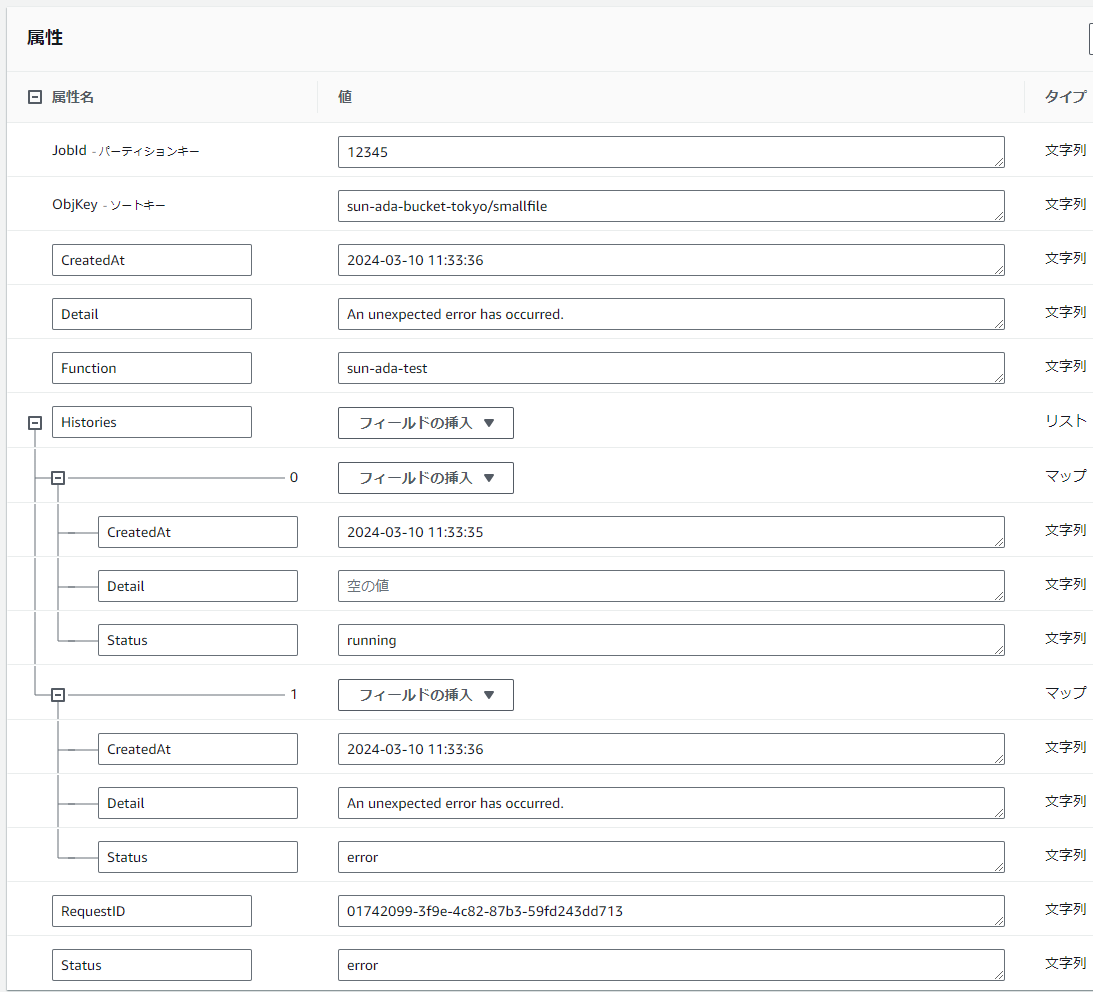
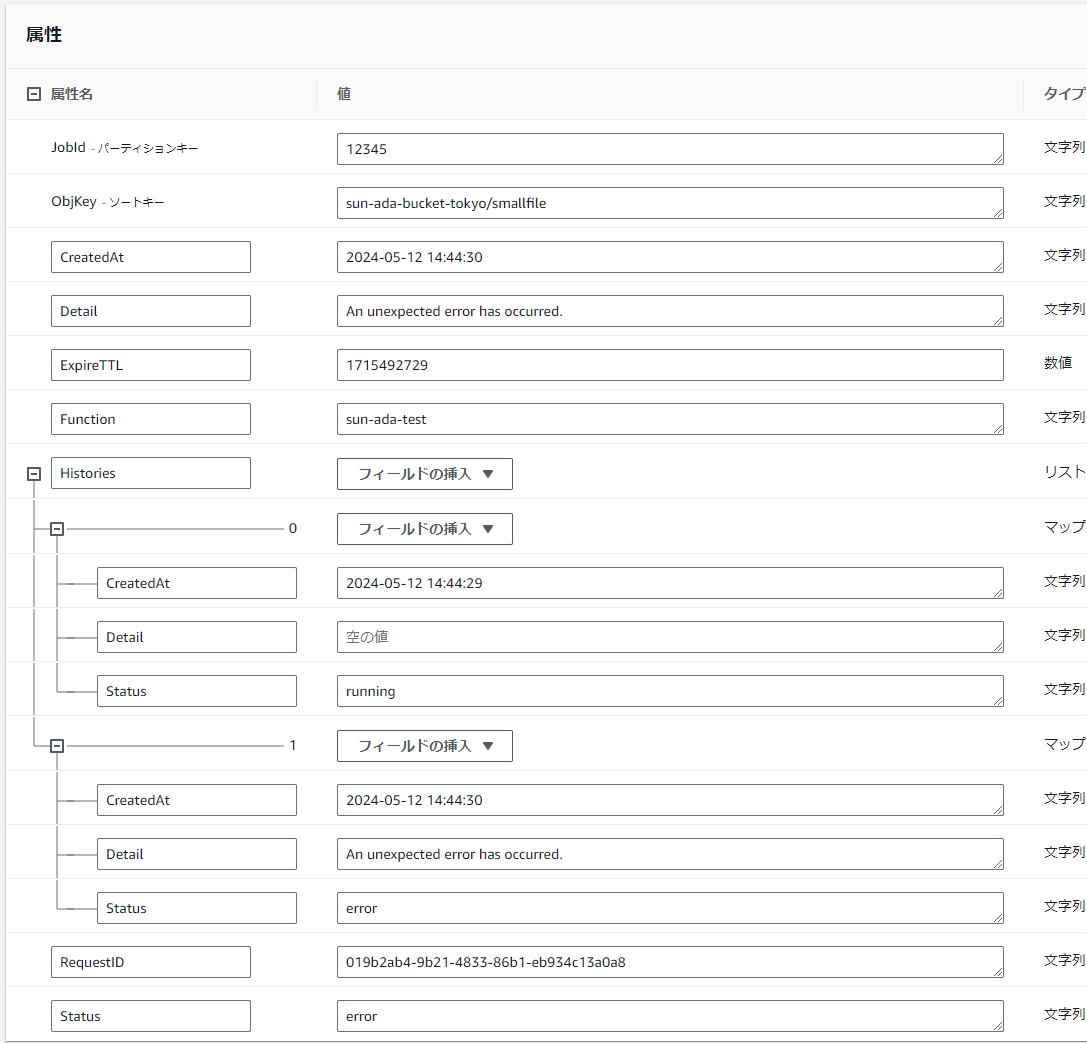
TTL設定によるDynamoDBデータ自動削除処理を追加

diff --git a/lambda_function.py b/lambda_function.py
@@ -28,11 +28,19 @@ STATUS_RUNNING = 'running'
 STATUS_SUCCESS = 'success'
 STATUS_ERROR = 'error'
 
+# TTL（Time to Live）定義（秒）
+TTL_SECONDS_VALUE = 24 * 60 * 60
+
+# UNIXエポック時間形式（秒）TTL値取得
+def get_ttl_unix_epoch_time():
+    return int((datetime.datetime.now(tz=tz.gettz('Asia/Tokyo')) + datetime.timedelta(seconds=TTL_SECONDS_VALUE)).timestamp())
+
 # 開始ステータス登録
 def write_start_status(status):
     try:
         status['Status'] = STATUS_RUNNING
         status['CreatedAt'] = datetime.datetime.now(tz=tz.gettz('Asia/Tokyo')).strftime('%Y-%m-%d %H:%M:%S')
+        status['ExpireTTL'] = get_ttl_unix_epoch_time()
         status['Histories'] = [
             {
                 'CreatedAt': status['CreatedAt'],
@@ -57,6 +65,7 @@ def write_start_status(status):
 def write_final_status(status):
     try:
         status['CreatedAt'] = datetime.datetime.now(tz=tz.gettz('Asia/Tokyo')).strftime('%Y-%m-%d %H:%M:%S')
+        status['ExpireTTL'] = get_ttl_unix_epoch_time()
         # DB更新
         dynamo_table.update_item(
             Key={

diff --git a/README.md b/README.md
@@ -28,6 +28,14 @@ AWS Lambda sample code for implementing idempotency.
 
 ![alt text](assets/image-dynamodb-table.png)
 
+## TTL（Time to Live）
+
+DynamoDBテーブルのイベントデータはTTL設定により一定時間経過後に自動削除されます。
+
+![alt text](assets/image-dynamodb-ttl.png)
+
+但し、TTL設定によるデータ削除のタイミングは、それほど厳密ではないことに注意してください。古いAWSドキュメントには「最大48時間」という記載があったようですが現在はありません。[AWS re:Post に記載された新しい情報](https://repost.aws/ja/knowledge-center/dynamodb-expired-ttl-not-deleted)では「通常、期限切れの項目を数日以内に削除します」と記載されています。今回の試行では平均10分強程で削除されていました。（※参考値）
+
 ## テストデータ
 
 テスト実行に用いたイベントデータは次のとおりです。
@@ -67,6 +75,8 @@ END RequestId: 50d363b4-b6ab-48d2-843d-aab3a0043aec
 
 ## 参考
 
+### 冪等性
+
 * https://pages.awscloud.com/rs/112-TZM-766/images/20190820_AWS-Blackbelt_Serverless_Monitoring.pdf
 * https://docs.aws.amazon.com/ja_jp/lambda/latest/dg/best-practices.html
 * https://repost.aws/ja/knowledge-center/lambda-function-idempotent
@@ -74,3 +84,10 @@ END RequestId: 50d363b4-b6ab-48d2-843d-aab3a0043aec
 * https://www.sunnycloud.jp/column/20221110/
 * https://it-ouji.com/2021/10/24/aws-dynamodb%E3%82%92%E4%BD%BF%E7%94%A8%E3%81%97%E3%81%A6lambda%E3%81%AE%E5%86%AA%E7%AD%89%E6%80%A7%E3%82%92%E5%AE%9F%E8%A3%85%E3%81%99%E3%82%8B/
 * https://zenn.dev/enven/articles/041ab29a69b3ce
+
+### TTL
+
+* https://docs.aws.amazon.com/ja_jp/amazondynamodb/latest/developerguide/time-to-live-ttl-how-to.html
+* https://docs.aws.amazon.com/ja_jp/amazondynamodb/latest/developerguide/TTL.html
+* https://repost.aws/ja/knowledge-center/dynamodb-expired-ttl-not-deleted
+* https://note.com/taro1212/n/n03b60ed03304
